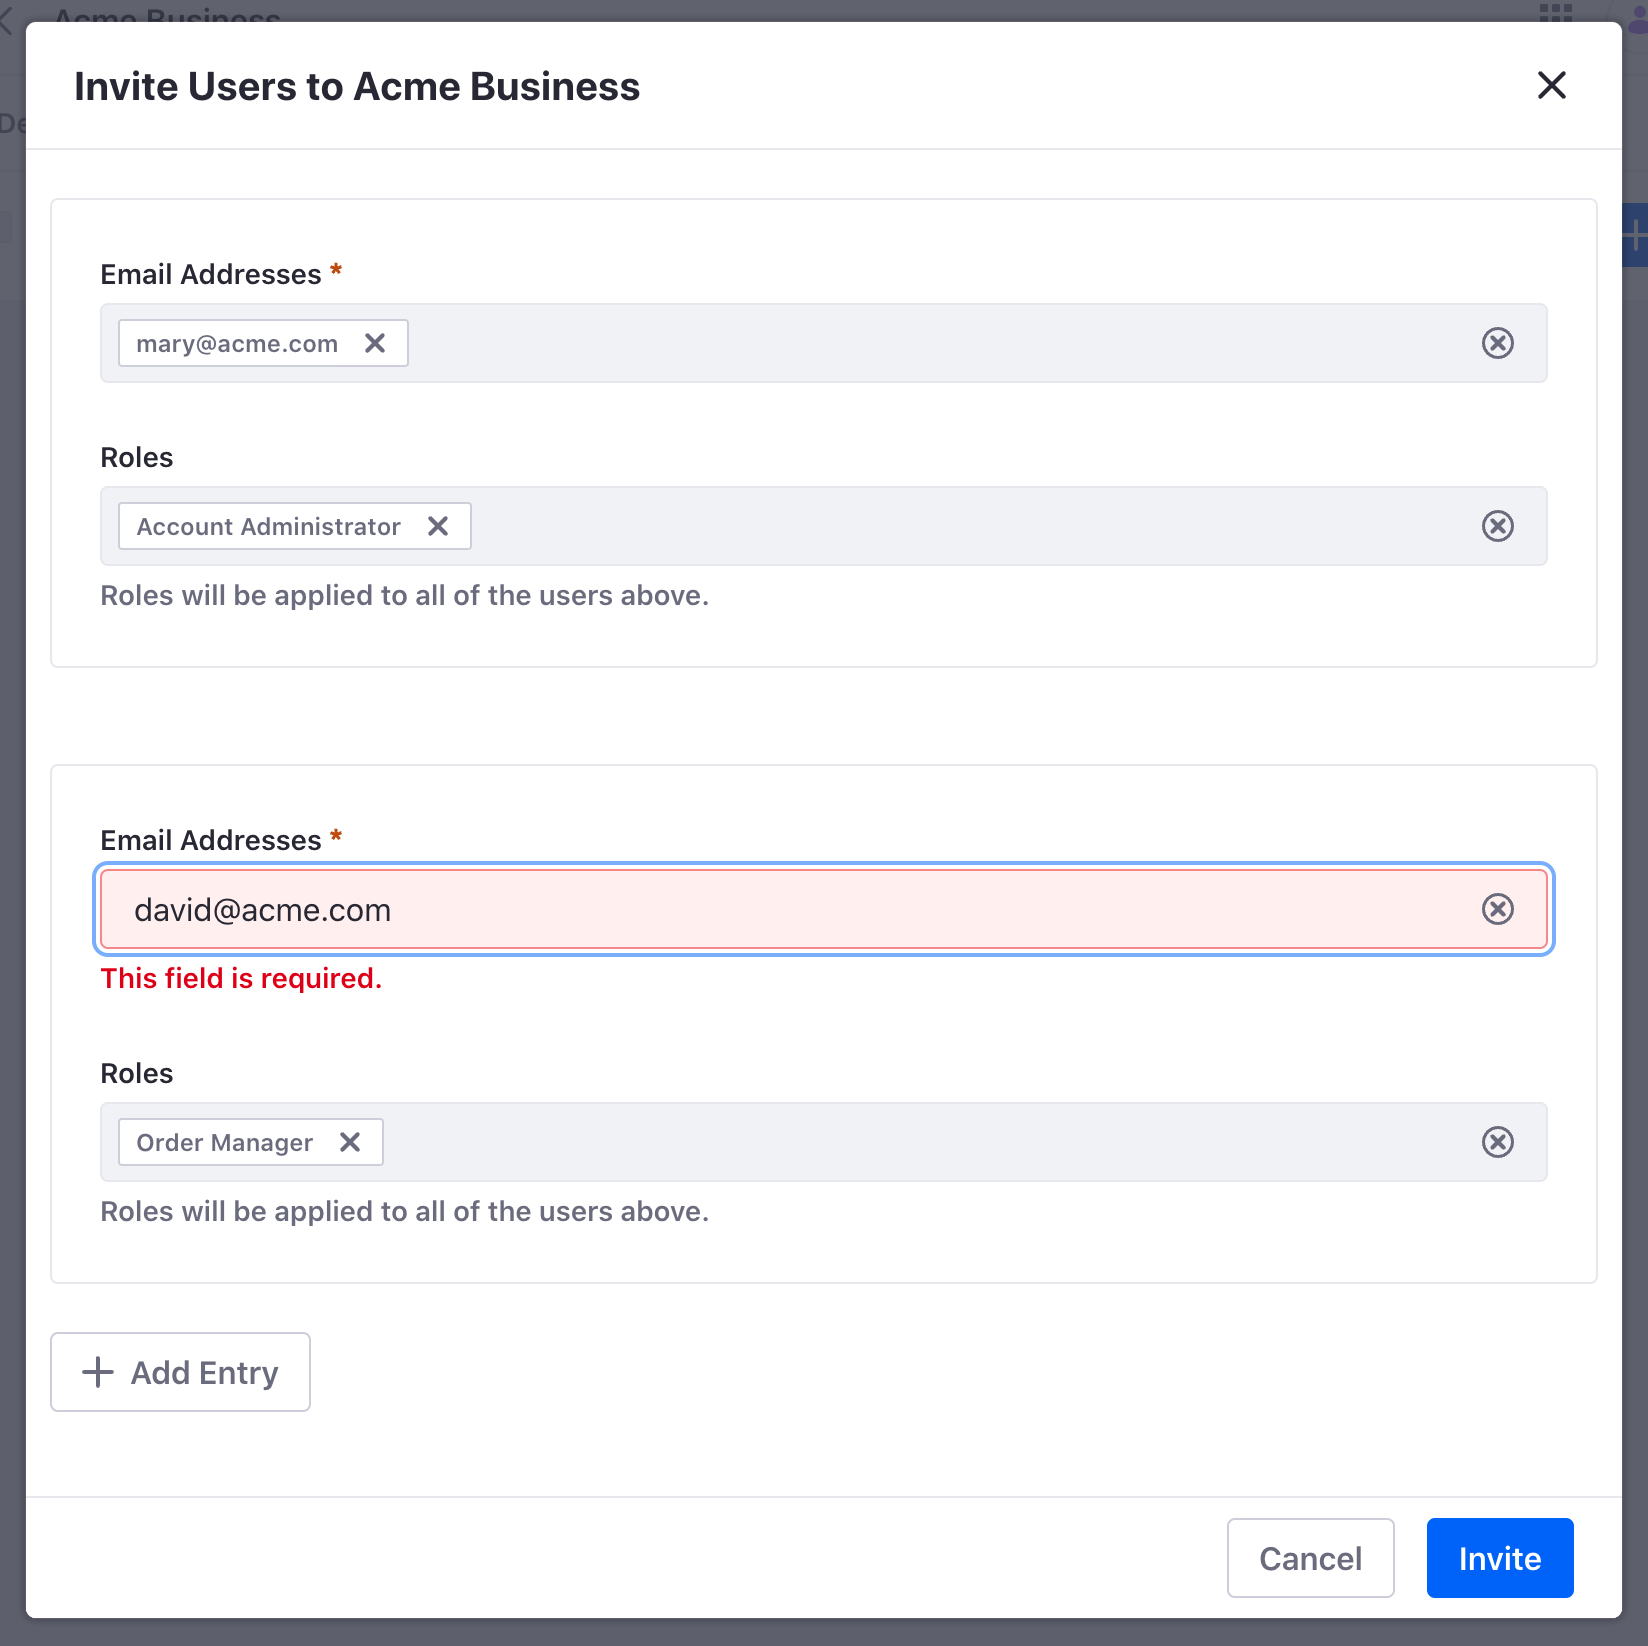
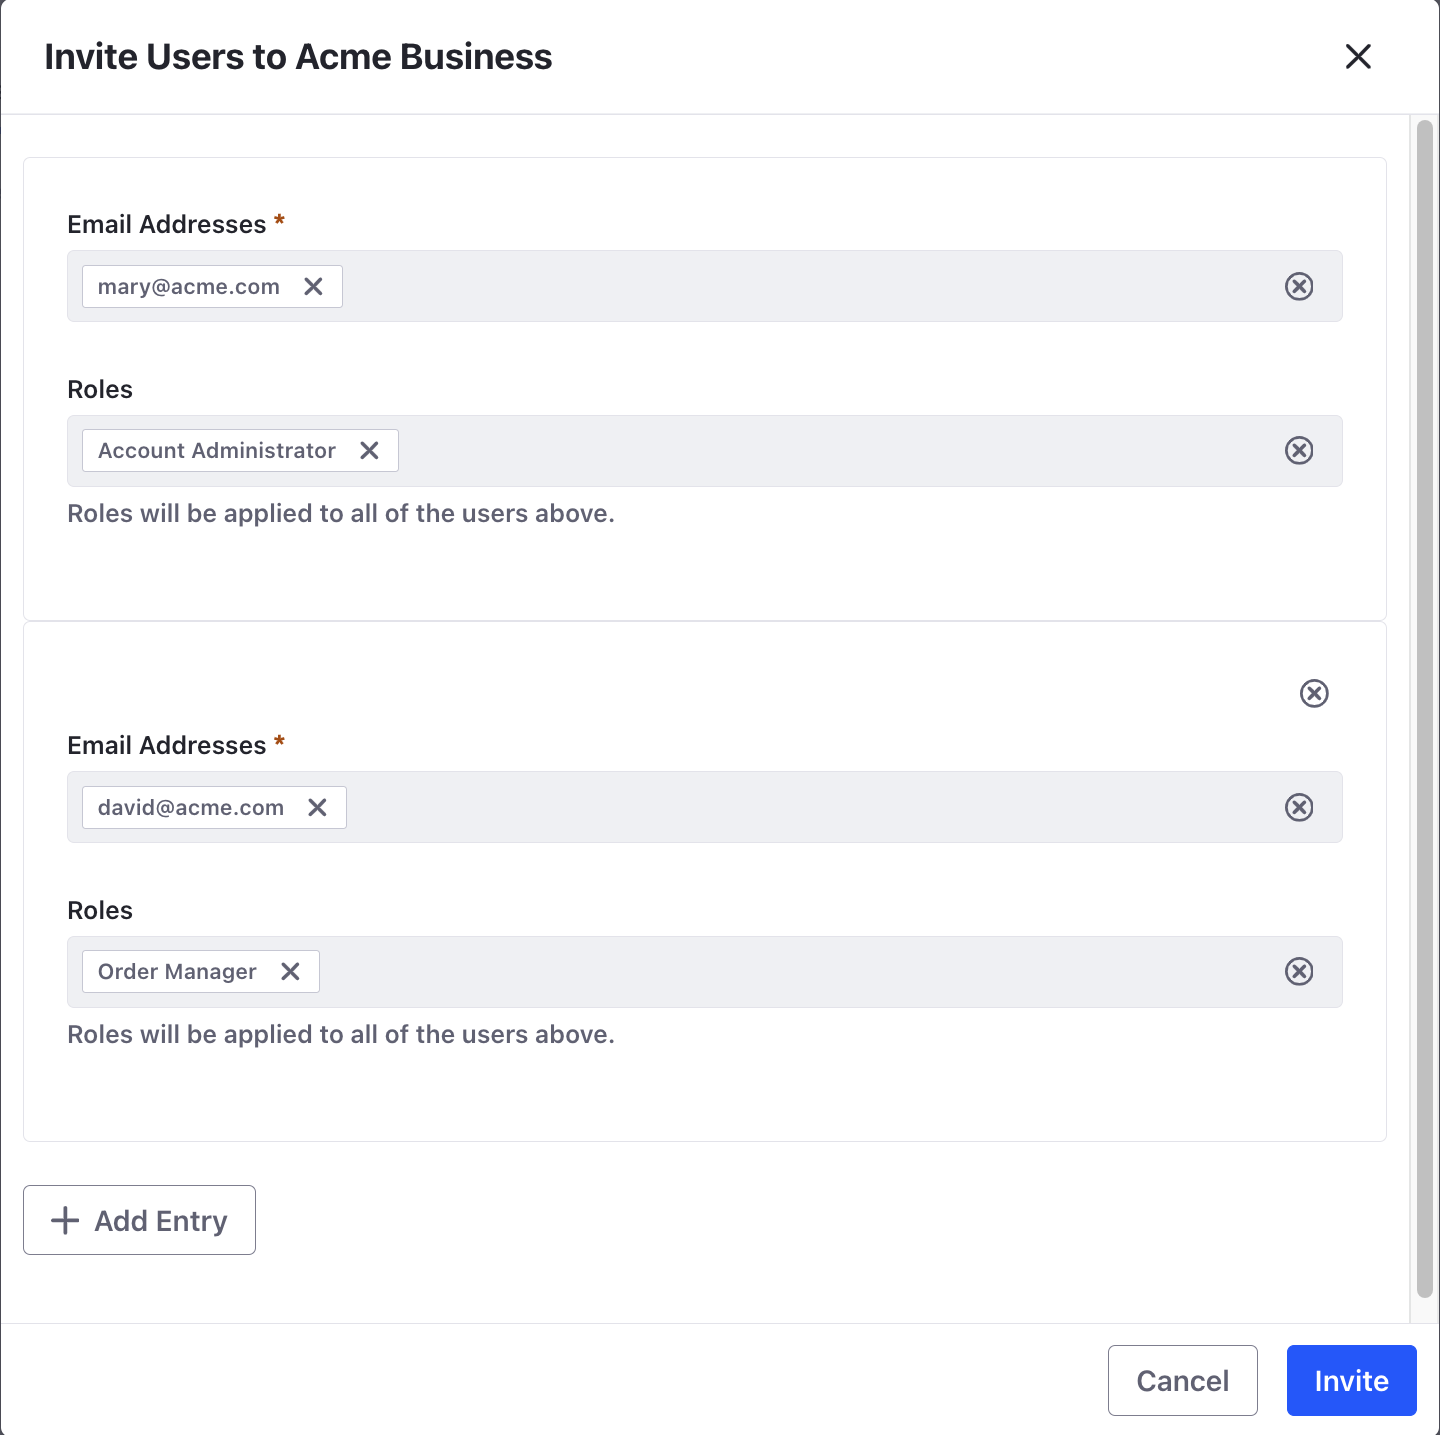
LRDOCS-12281 changed screenshot, update admonition syntax

diff --git a/docs/dxp/latest/en/users-and-permissions/accounts/account-users.md b/docs/dxp/latest/en/users-and-permissions/accounts/account-users.md
@@ -13,9 +13,8 @@ taxonomy-category-names:
 
 Once you've created an account, you can associate existing users with it manually. Alternatively, you can create and associate users with an account simultaneously using the Account Users application. Here you can also manage all users associated with accounts.
 
-```{note}
-For Liferay 7.4 U20/GA20 and earlier versions, you can only create users for accounts via the Account Users application. You cannot associate users created in the Users and Organizations application with accounts.
-```
+!!! note
+    For Liferay 7.4 U20/GA20 and earlier versions, you can only create users for accounts via the Account Users application. You cannot associate users created in the Users and Organizations application with accounts.
 
 ## Adding Account Users
 
@@ -23,7 +22,7 @@ For Liferay 7.4 U20/GA20 and earlier versions, you can only create users for acc
 
 1. Click *Add* (![Add Button](../../images/icon-add.png)).
 
-1. Select an *account* to associate with user.
+1. Select an *account* to associate with a user.
 
 1. Fill in the necessary information for this new user.
 
@@ -81,9 +80,8 @@ You can invite users to an account by email. Liferay sends an automated invitati
 
 1. (Optional) Enter and select the account roles you want to assign to the user (e.g., Account Administrator, Buyer, Order Manager, etc.).
 
-   ```{tip}
-   Liferay applies selected roles to all emails in the invite entry. If desired, you can click *Add Entry* to create additional invite entries for assigning different roles to emails.
-   ```
+   !!! tip
+       Liferay applies selected roles to all emails in the invite entry. If desired, you can click *Add Entry* to create additional invite entries for assigning different roles to emails.
 
 1. Click *Invite*.
 
@@ -101,21 +99,21 @@ Liferay sends an invitation to the included email addresses. Each recipient can 
 
 The following options are available:
 
-| General Tab | Description |
-| :--- | :--- |
+| General Tab | Description                                     |
+| :---------- | :---------------------------------------------- |
 | Information | Edit or change the user's personal information. |
-| Accounts | View or modify the user's associated accounts. |
-| Password | Add or change the user's password. |
+| Accounts    | View or modify the user's associated accounts.  |
+| Password    | Add or change the user's password.              |
 
-| Contact Tab | Description |
-| :--- | :--- |
-| Addresses | Add or change the user's addresses. |
+| Contact Tab         | Description                                  |
+| :------------------ | :------------------------------------------- |
+| Addresses           | Add or change the user's addresses.          |
 | Contact Information | Add or change the user's contact information |
 
-| Preferences Tab | Description |
-| :--- | :--- |
-| Alert and Announcements Delivery | Change the user's notification settings. |
-| Display Settings | Change the user's time zone and greeting settings. |
+| Preferences Tab                  | Description                                        |
+| :------------------------------- | :------------------------------------------------- |
+| Alert and Announcements Delivery | Change the user's notification settings.           |
+| Display Settings                 | Change the user's time zone and greeting settings. |
 
 ## Deactivating and Deleting an Account User
 
